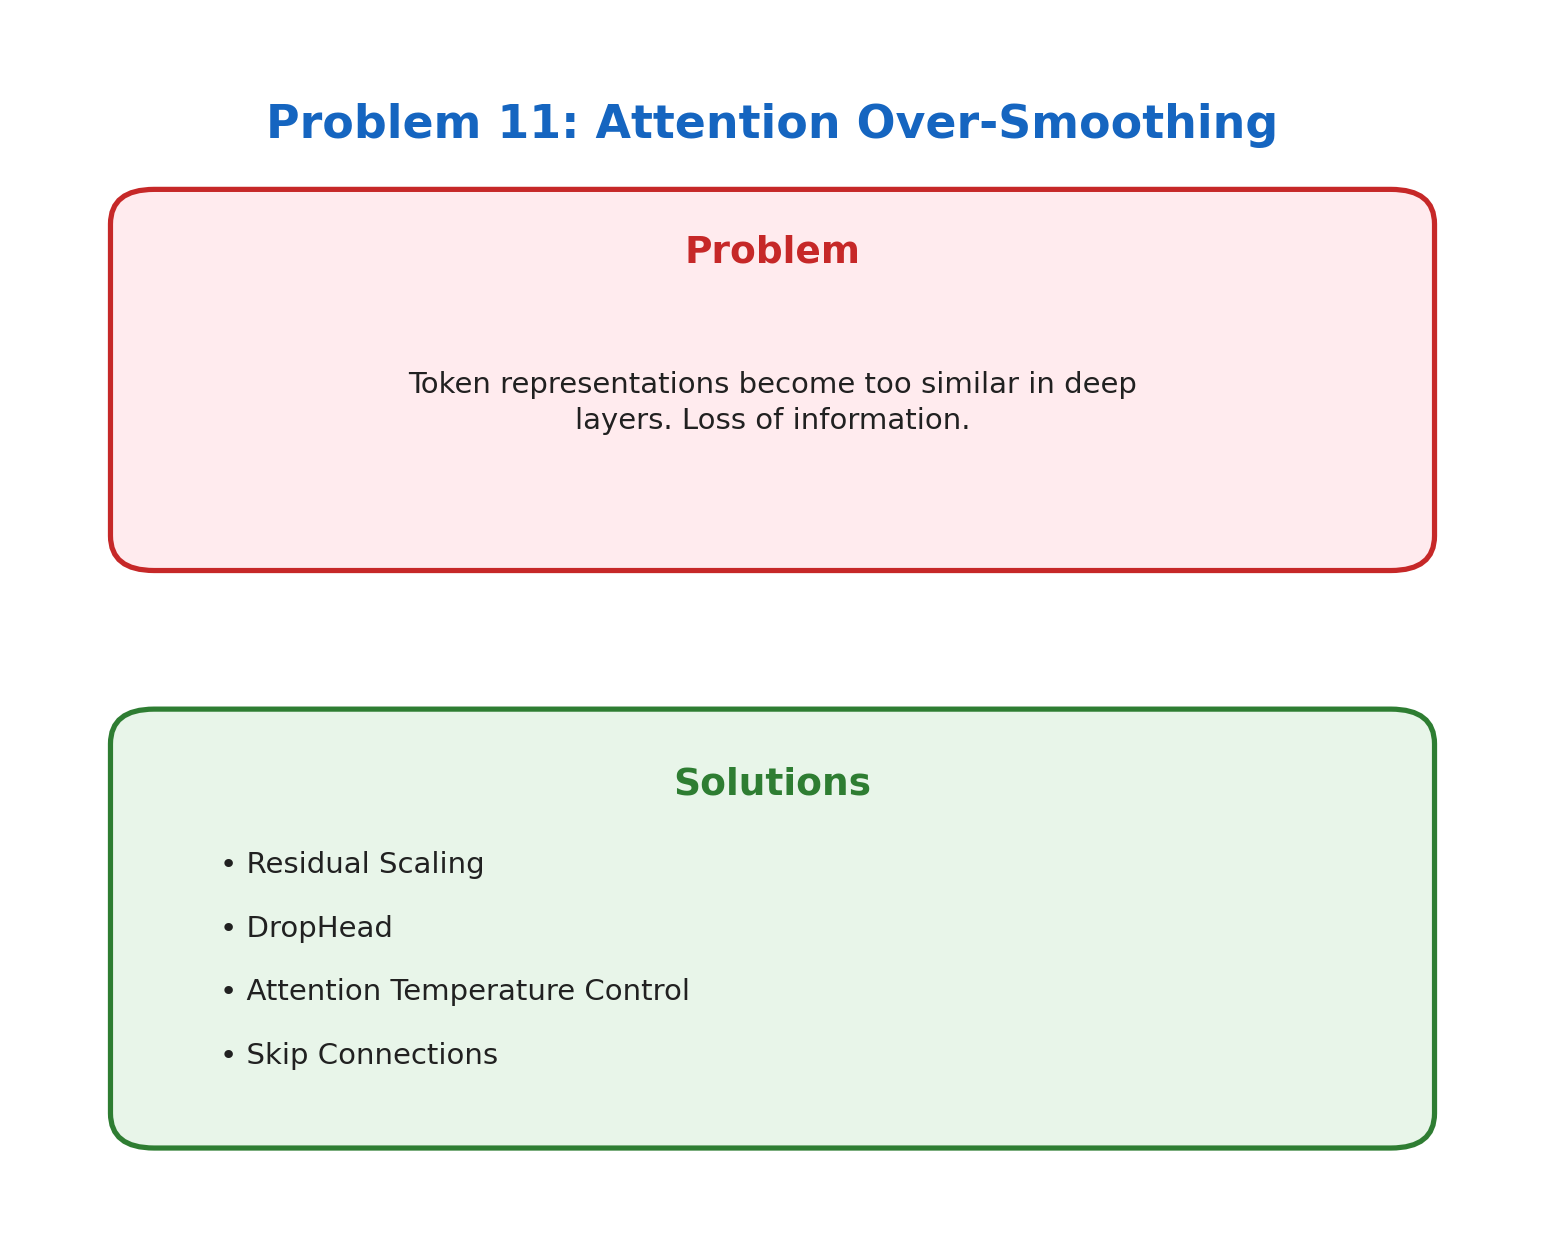
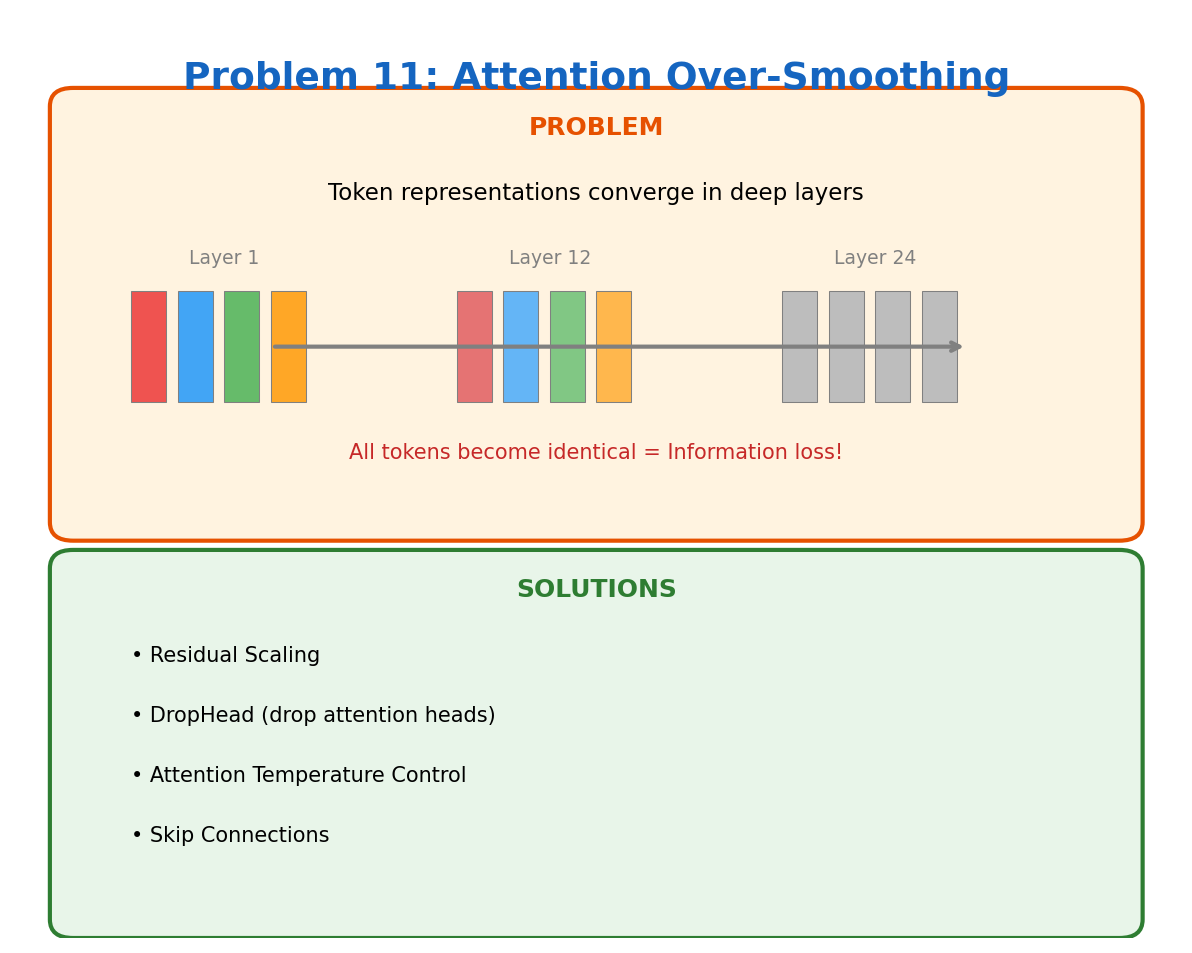
Update Problem 11: Attention Over-Smoothing - human-readable README

diff --git a/11_attention_smoothing/README.md b/11_attention_smoothing/README.md
@@ -1,23 +1,65 @@
 # Problem 11: Attention Over-Smoothing
 
-## Problem
+[← Back to Main](../README.md) | [← Previous](../10_training_instability/README.md) | [Next →](../12_no_recurrence/README.md)
 
-Token representations become too similar in deep layers. Loss of information.
+---
 
-As representations pass through many Transformer layers, they tend to converge to similar values (rank collapse). This over-smoothing effect reduces the model's ability to distinguish between tokens.
+![Problem 11](./problem.png)
 
-## Solutions
+## What's the Problem?
 
-| Solution | Description |
-|----------|-------------|
-| **Residual Scaling** | Scale residual connections to prevent representation collapse |
-| **DropHead** | Randomly drop attention heads during training |
-| **Attention Temperature Control** | Adjust softmax temperature to sharpen or smooth attention |
-| **Skip Connections** | Additional skip connections across multiple layers |
+Stack enough transformer layers and something weird happens: all your token representations start looking the same. Token 1, token 50, token 500 — by layer 24, they're nearly identical vectors.
 
-## References
+This is called **over-smoothing** or **rank collapse**. The repeated attention operations act like a low-pass filter, averaging out the distinctive features of each token.
 
-- [DeepNet](https://arxiv.org/abs/2203.00555) - Scaling Transformers to 1,000 Layers
-- [Understanding Attention](https://arxiv.org/abs/2006.16362) - What Do Vision Transformers Learn?
-- [Rank Collapse](https://arxiv.org/abs/2103.03404) - Do Vision Transformers See Like CNNs?
+The result? Your deep model might not be much better than a shallow one because the extra layers aren't adding useful information.
 
+## Why Does This Happen?
+
+Attention computes weighted averages of value vectors. When you stack this operation:
+- Layer 1: Each token is a mix of its neighbors
+- Layer 5: Each token is a mix of mixes
+- Layer 20: Everyone is mixed with everyone — everything converges to the mean
+
+It's like repeatedly averaging colors — eventually everything becomes gray.
+
+## Visualizing the Problem
+
+Early layers:
+```
+Token 1: [0.8, 0.2, -0.5, ...]  ← distinct
+Token 2: [-0.3, 0.9, 0.1, ...]  ← distinct
+Token 3: [0.1, -0.4, 0.7, ...]  ← distinct
+```
+
+Deep layers:
+```
+Token 1: [0.2, 0.3, 0.1, ...]   ← similar
+Token 2: [0.2, 0.3, 0.1, ...]   ← similar
+Token 3: [0.2, 0.2, 0.1, ...]   ← similar
+```
+
+## How Do We Fix It?
+
+| Technique | What It Does |
+|-----------|--------------|
+| **Residual Connections** | Add input to output — preserves original information |
+| **Residual Scaling** | Scale down attention output to prevent dominating residual |
+| **DropHead** | Randomly drop attention heads during training — prevents over-reliance |
+| **Skip Connections** | Connect early layers directly to later layers |
+| **Attention Temperature** | Control sharpness of attention distribution |
+
+## The Residual Connection is Key
+
+The `x + Attention(x)` residual connection is crucial. Without it, over-smoothing would happen much faster. The residual lets each layer make small modifications rather than complete replacements.
+
+DeepNet (1000+ layers) scales residuals differently in different parts to maintain signal through extreme depth.
+
+## Learn More
+
+- [DeepNet](https://arxiv.org/abs/2203.00555) — Training transformers with 1000+ layers
+- [Over-smoothing in GNNs](https://arxiv.org/abs/1801.07606) — Same problem in graphs
+
+---
+
+[← Back to Main](../README.md) | [← Previous](../10_training_instability/README.md) | [Next →](../12_no_recurrence/README.md)
